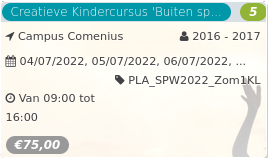
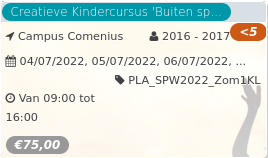
Latest vgc data: Mon May 16 17:50:19 UTC 2022

Changed region(s): [[0.5373, 0.0, 1.0, 0.2785]]

diff --git a/deplatoo/72472.md b/deplatoo/72472.md
@@ -1,4 +1,4 @@
-Creatieve Kindercursus 'Buiten sp... *5*
+Creatieve Kindercursus 'Buiten sp... *<5*
 
 Campus Comenius 2016 - 2017  
 04/07/2022, 05/07/2022, 06/07/2022, ... PLA\_SPW2022\_Zom1KL  
